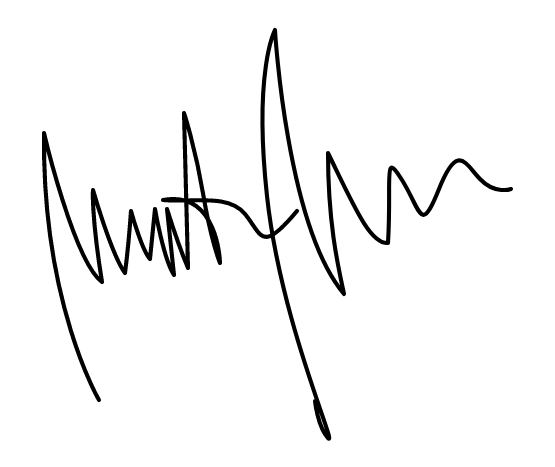
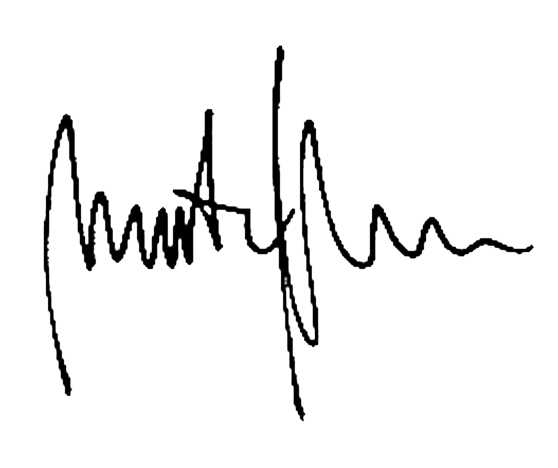
changed mdr signature to latest version, also changed the designation

Changed region(s): [[0.0613, 0.06, 0.9495, 0.9593], [0.7964, 0.3298, 0.9189, 0.4197]]

diff --git a/app/Http/Controllers/CoiDController.php b/app/Http/Controllers/CoiDController.php
@@ -248,7 +248,7 @@ class CoiDController extends Controller
                 PDF::AddPage("P", "A4");
                 PDF::SetFooterMargin(PDF_MARGIN_FOOTER);
                 PDF::SetAutoPageBreak(TRUE, 0);
-                PDF::Image(public_path('images/mdr.png'), 130, 101, 25);
+                PDF::Image(public_path('images/mdr.png'), 130, 105, 25);
                 PDF::Image(public_path('images/logo.png'), 107, 12, 20);
                 PDF::Image(public_path('images/ml_logo.png'), 15, 12, 48);
                 PDF::writeHTML($html_content, true, false, true, false, '');

diff --git a/app/Http/Controllers/CoiRController.php b/app/Http/Controllers/CoiRController.php
@@ -238,7 +238,7 @@ class CoiRController extends Controller
                 PDF::AddPage("P", "A4");
                 PDF::SetFooterMargin(PDF_MARGIN_FOOTER);
                 PDF::SetAutoPageBreak(TRUE, 0);
-                PDF::Image(public_path('images/mdr.png'), 130, 96, 25);
+                PDF::Image(public_path('images/mdr.png'), 130, 100, 25);
                 PDF::Image(public_path('images/logo.png'), 107, 12, 20);
                 PDF::Image(public_path('images/ml_logo.png'), 15, 12, 48);
                 PDF::writeHTML($html_content, true, false, true, false, '');

diff --git a/app/Http/Controllers/CoiAController.php b/app/Http/Controllers/CoiAController.php
@@ -349,7 +349,7 @@ class CoiAController extends Controller
                 PDF::AddPage("P", "A4");
                 PDF::SetFooterMargin(PDF_MARGIN_FOOTER);
                 PDF::SetAutoPageBreak(FALSE, 0);
-                PDF::Image(public_path('images/mdr.png'), 130, 126, 25);
+                PDF::Image(public_path('images/mdr.png'), 130, 128, 25);
                 PDF::Image(public_path('images/logo.png'), 107, 12, 20);
                 PDF::Image(public_path('images/ml_logo.png'), 15, 12, 48);
                 //PDF::Image("../public/images/logo.png", 10, 13, 30.5);

diff --git a/app/Http/Controllers/CoiAOController.php b/app/Http/Controllers/CoiAOController.php
@@ -237,7 +237,7 @@ class CoiAOController extends Controller
                 PDF::AddPage();
                 PDF::SetFooterMargin(PDF_MARGIN_FOOTER);
                 PDF::SetAutoPageBreak(TRUE, 0);
-                PDF::Image(public_path('images/mdr.png'), 130, 96, 25);
+                PDF::Image(public_path('images/mdr.png'), 130, 100, 25);
                 PDF::Image(public_path('images/logo.png'), 107, 12, 20);
                 PDF::Image(public_path('images/ml_logo.png'), 15, 12, 48);
                 PDF::writeHTML($html_content, true, false, true, false, '');

diff --git a/app/Http/Controllers/COIMController.php b/app/Http/Controllers/COIMController.php
@@ -263,7 +263,7 @@ class CoiMController extends Controller
                 PDF::SetPrintHeader(false);
                 PDF::AddPage('P', 'A4');
                 PDF::SetAutoPageBreak(false);
-                PDF::Image(public_path('images/mdr.png'), 115, 106, 25);
+                PDF::Image(public_path('images/mdr.png'), 115, 114, 25);
                 // PDF::Image(public_path('images/logo.png'), 107, 12, 20);
                 PDF::Image(public_path('images/logo.png'), 141, 272, 12);
                 PDF::Image(public_path('images/ml_logo.png'), 15, 12, 48);

diff --git a/resources/views/transactions/coi_a/coi_a-pdf.blade.php b/resources/views/transactions/coi_a/coi_a-pdf.blade.php
@@ -240,7 +240,7 @@
             <td width="5%"></td>
             <td width="40%" align="center">Date of Issuance: {{ $transaction->date_issued ? Carbon\Carbon::parse($transaction->date_issued)->format('M d, Y') : null }} </td>
             <td width="5%"></td>
-            <td width="40%" align="center">Deputy CEO / Executive Vice President</td>
+            <td width="40%" align="center">President & CEO</td>
             <td width="10%"></td>
         </tr>
         <tr>

diff --git a/resources/views/transactions/coi_ao/coi_ao-pdf.blade.php b/resources/views/transactions/coi_ao/coi_ao-pdf.blade.php
@@ -137,7 +137,7 @@
             <td width="5%"></td>
             <td width="40%" align="center">Date of Issuance: {{ $transaction->date_issued ? Carbon\Carbon::parse($transaction->date_issued)->format('M d, Y') : null }} </td>
             <td width="5%"></td>
-            <td width="40%" align="center">Deputy CEO / Executive Vice President</td>
+            <td width="40%" align="center">President & CEO</td>
             <td width="10%"></td>
         </tr>
         <tr>

diff --git a/resources/views/transactions/coi_b/coi_b-pdf.blade.php b/resources/views/transactions/coi_b/coi_b-pdf.blade.php
@@ -163,7 +163,7 @@
             <td width="5%"></td>
             <td width="40%" align="center">Date of Issuance: {{ $transaction->date_issued ? Carbon\Carbon::parse($transaction->date_issued)->format('M d, Y') : null }} </td>
             <td width="5%"></td>
-            <td width="40%" align="center">Deputy CEO / Executive Vice President</td>
+            <td width="40%" align="center">President & CEO</td>
             <td width="10%"></td>
         </tr>
         <tr>

diff --git a/resources/views/transactions/coi_d/coi_d-pdf.blade.php b/resources/views/transactions/coi_d/coi_d-pdf.blade.php
@@ -142,7 +142,7 @@
             <td width="5%"></td>
             <td width="40%" align="center">Date of Issuance: {{ $transaction->date_issued ? Carbon\Carbon::parse($transaction->date_issued)->format('M d, Y') : null }} </td>
             <td width="5%"></td>
-            <td width="40%" align="center">Deputy CEO / Executive Vice President</td>
+            <td width="40%" align="center">President & CEO</td>
             <td width="10%"></td>
         </tr>
         <tr>

diff --git a/resources/views/transactions/coi_r/coi_r-pdf.blade.php b/resources/views/transactions/coi_r/coi_r-pdf.blade.php
@@ -140,7 +140,7 @@
             <td width="5%"></td>
             <td width="40%" align="center">Date of Issuance: {{ $transaction->date_issued ? Carbon\Carbon::parse($transaction->date_issued)->format('M d, Y') : null }} </td>
             <td width="5%"></td>
-            <td width="40%" align="center">Deputy CEO / Executive Vice President</td>
+            <td width="40%" align="center">President & CEO</td>
             <td width="10%"></td>
         </tr>
         <tr>

diff --git a/resources/views/transactions/coi_m/coi_m-pdf.blade.php b/resources/views/transactions/coi_m/coi_m-pdf.blade.php
@@ -186,7 +186,7 @@
         <tr>
             <td></td>
             <td colspan="2" align="left"><span class="font-9">Relationship to the member: <u>{{ $transaction->relationship }}</u></span></td>
-            <td align="left"><span class="font-9"><i>Deputy CEO / Executive Vice President</i></span></td>
+            <td align="left"><span class="font-9"><i>President & CEO</i></span></td>
             <td></td>
         </tr>
         <tr>
